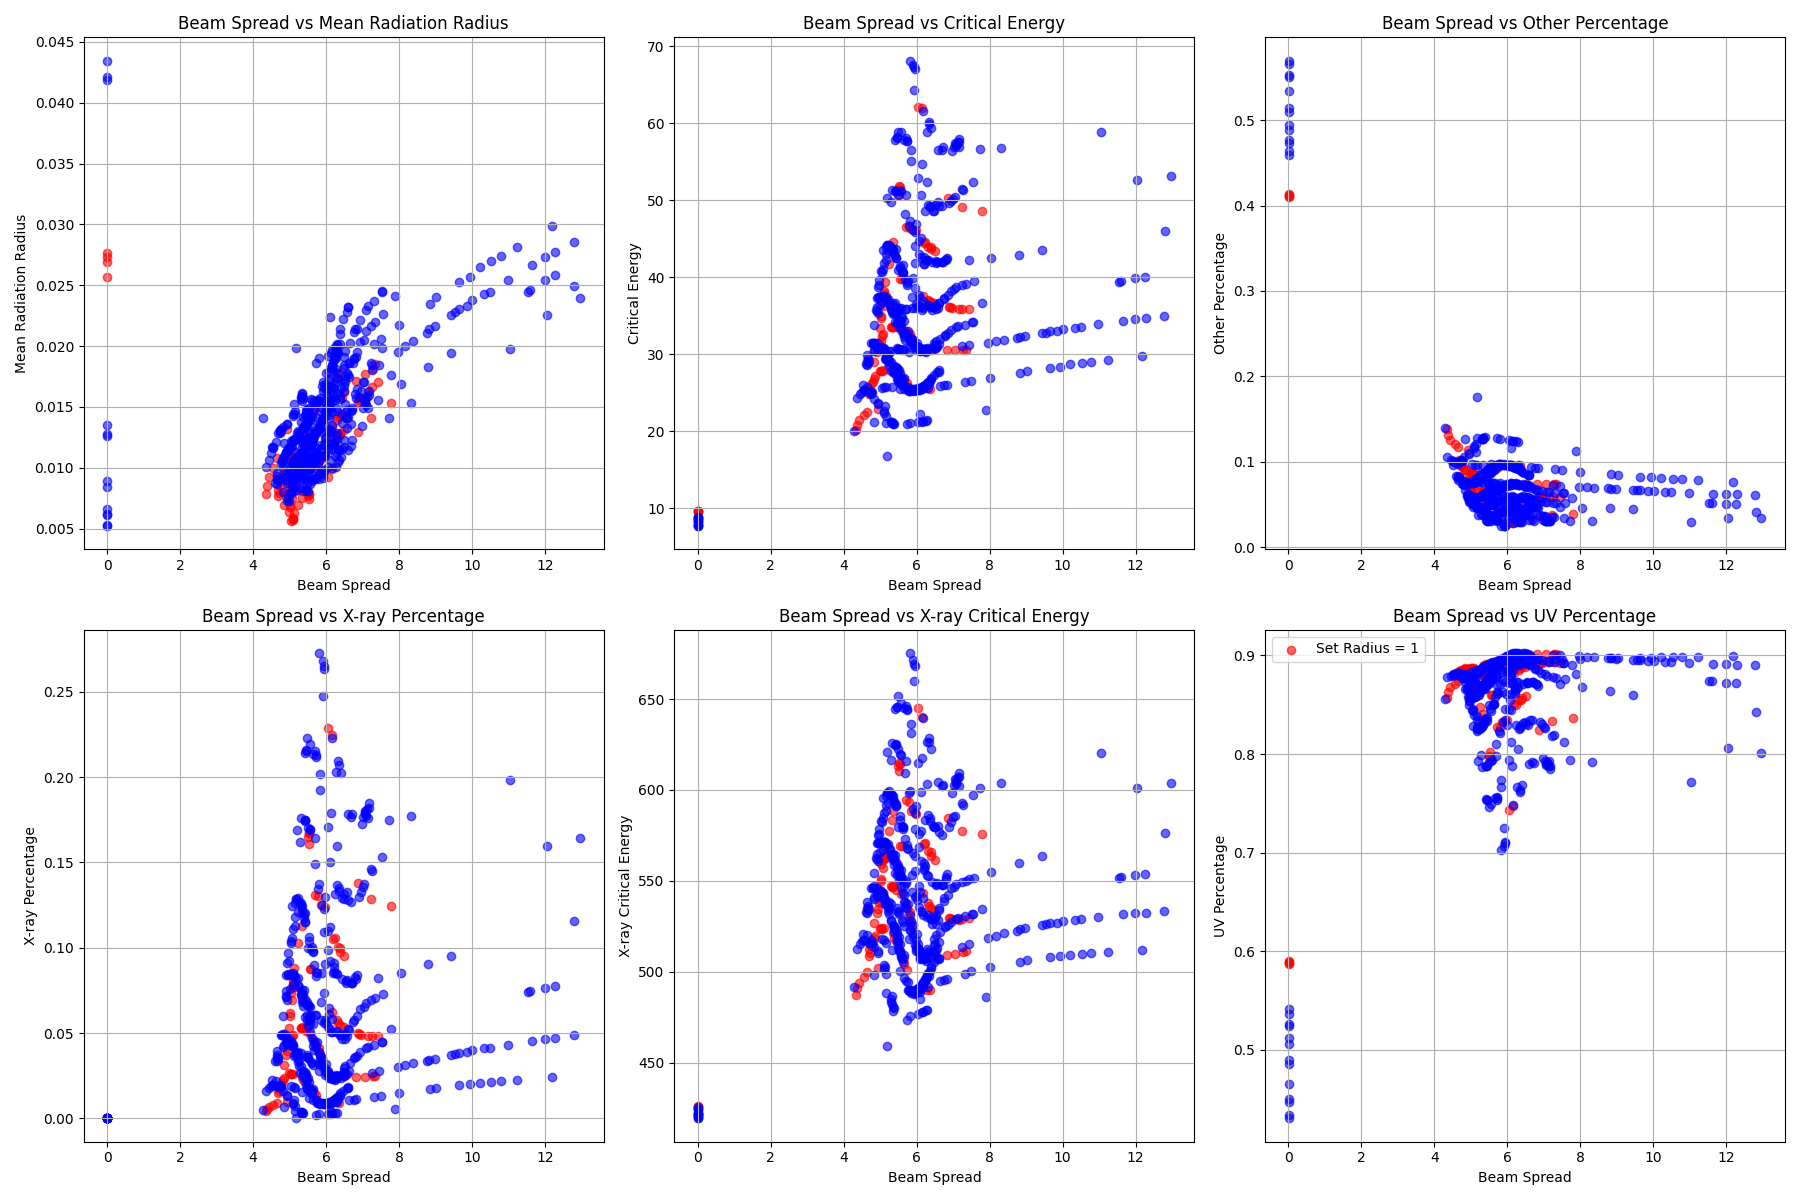
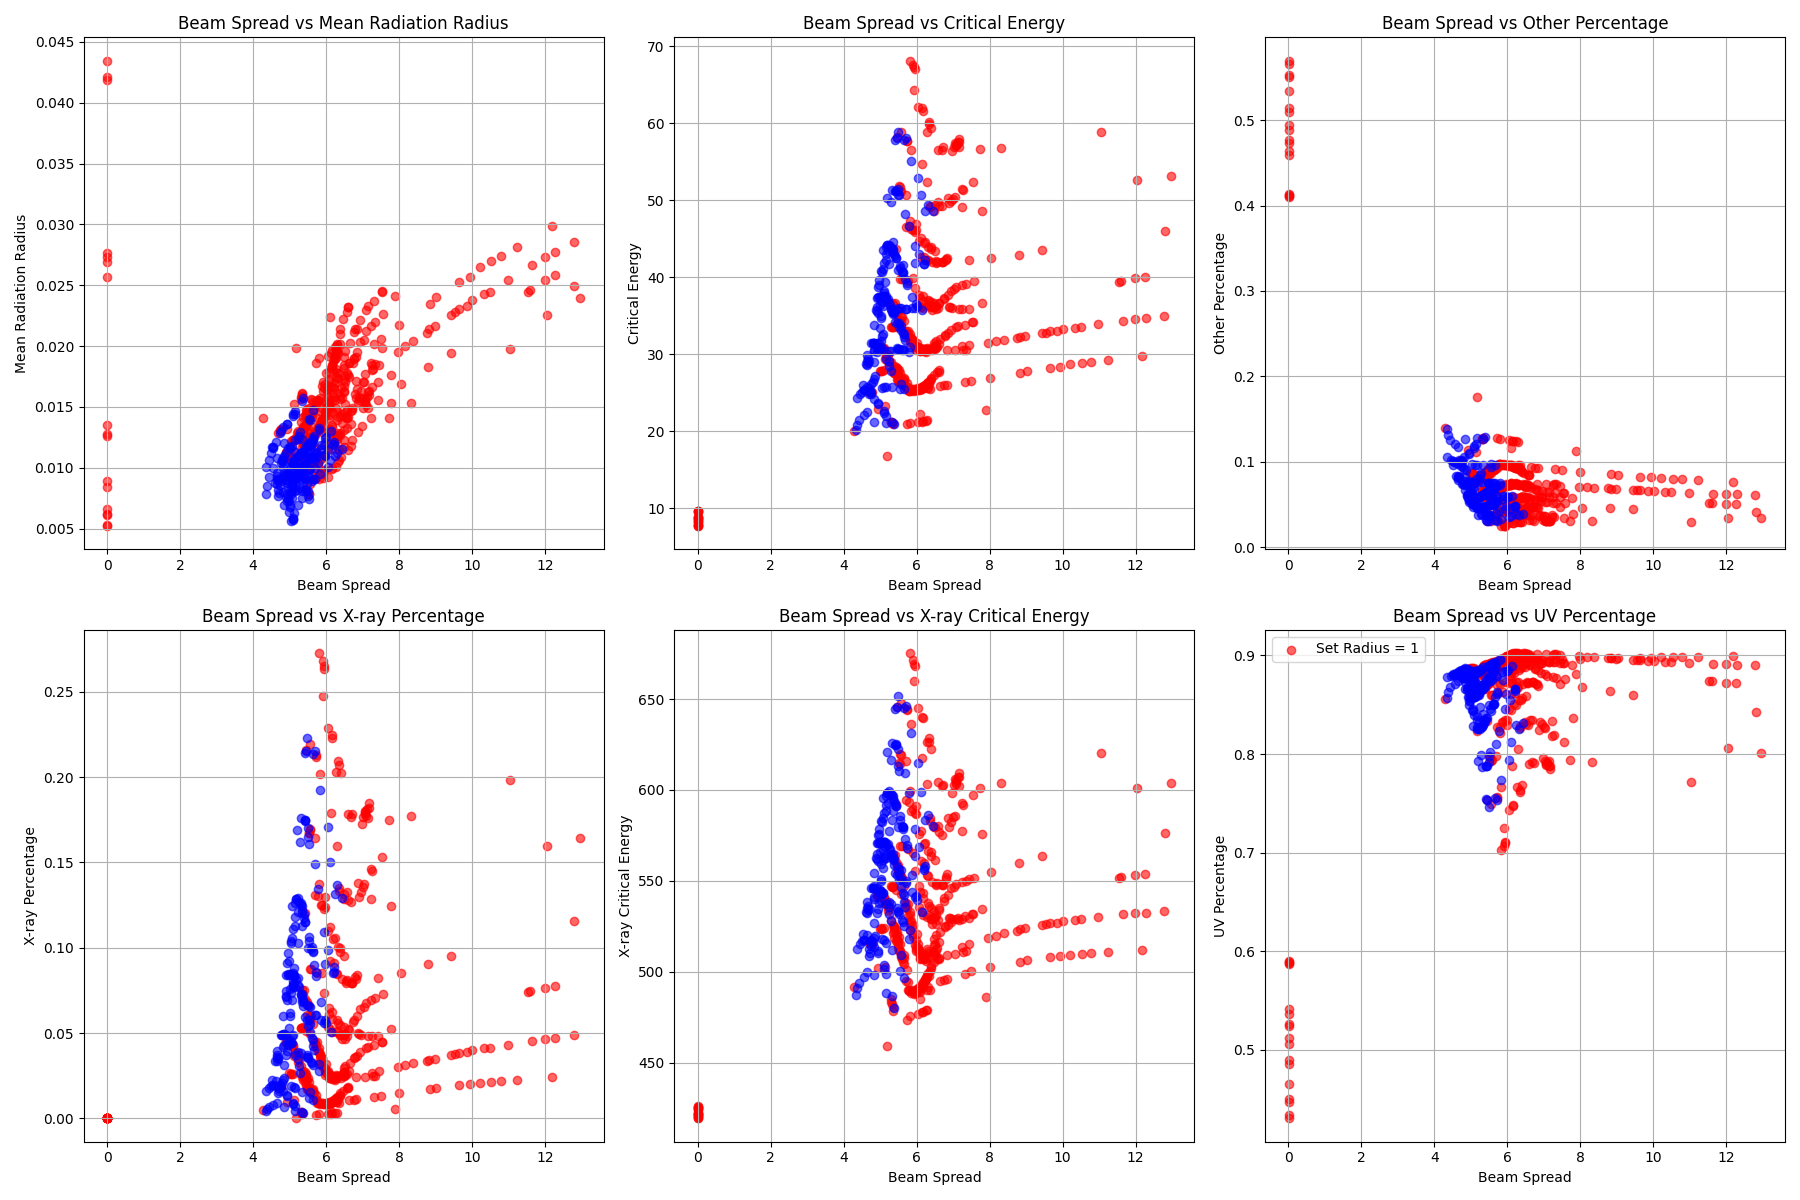
look at beam parameters more

diff --git a/Processed_Data/statistical_analysis.py b/Processed_Data/statistical_analysis.py
@@ -41,7 +41,7 @@ def distance_correlation_calculator(df, targets):
 
 data_set=r"data_sets\output_test_600.csv"
 df = pd.read_csv(data_set)
-df = df.drop(columns=['Initial emittance'])
+#df = df.drop(columns=['Initial emittance'])
 
 
 # Apply the function to the column
@@ -111,10 +111,10 @@ plt.savefig('Plots/distance_correlation_heatmap_reduced_parameters.png')
 
 set_radius=1
 emittance_check_df=df[['Emittance','X-ray Percentage',
-        'X-ray Critical Energy','Mean Radiation Radius','UV Percentage','Other Percentage','Critical Energy','Set Radius']]
+        'X-ray Critical Energy','Mean Radiation Radius','UV Percentage','Other Percentage','Critical Energy','Set Radius','Initial emittance']]
 
-red_points = emittance_check_df[emittance_check_df['Set Radius'] == set_radius]
-other_points = emittance_check_df[emittance_check_df['Set Radius'] != set_radius]
+red_points = emittance_check_df[emittance_check_df['Initial emittance'] >=5]
+other_points = emittance_check_df[emittance_check_df['Initial emittance'] <5]
 #other_points = emittance_check_df[emittance_check_df['Set Radius'] == 0]
 
 
@@ -178,11 +178,11 @@ plt.savefig('Plots/emittance_parameters_plot.png')
 
 # Create the DataFrame with relevant columns
 beam_spread_check_df = df[['Beam Spread', 'X-ray Percentage', 'X-ray Critical Energy', 'Mean Radiation Radius', 
-                           'UV Percentage', 'Other Percentage', 'Critical Energy', 'Set Radius']]
+                           'UV Percentage', 'Other Percentage', 'Critical Energy', 'Set Radius','Initial emittance']]
 
 # Split the data based on Set Radius
-red_points = beam_spread_check_df[beam_spread_check_df['Set Radius'] == set_radius]
-other_points = beam_spread_check_df[beam_spread_check_df['Set Radius'] != set_radius]
+red_points = beam_spread_check_df[beam_spread_check_df['Initial emittance'] >=5]
+other_points = beam_spread_check_df[beam_spread_check_df['Initial emittance'] < 5]
 
 # Create a figure with a 2x3 grid of subplots
 fig, axes = plt.subplots(2, 3, figsize=(18, 12))
@@ -245,11 +245,11 @@ plt.savefig('Plots/beam_spread_parameters_plot.png')
 
 # Create the DataFrame with relevant columns
 beam_energy_check_df = df[['Beam Energy', 'X-ray Percentage', 'X-ray Critical Energy', 'Mean Radiation Radius', 
-                           'UV Percentage', 'Other Percentage', 'Critical Energy', 'Set Radius']]
+                           'UV Percentage', 'Other Percentage', 'Critical Energy', 'Set Radius','Initial emittance']]
 
 # Split the data based on Set Radius
-red_points = beam_energy_check_df[beam_energy_check_df['Set Radius'] == set_radius]
-other_points = beam_energy_check_df[beam_energy_check_df['Set Radius'] != set_radius]
+red_points = beam_energy_check_df[beam_energy_check_df['Initial emittance'] >=5]
+other_points = beam_energy_check_df[beam_energy_check_df['Initial emittance'] <5]
 
 # Create a figure with a 2x3 grid of subplots
 fig, axes = plt.subplots(2, 3, figsize=(18, 12))
